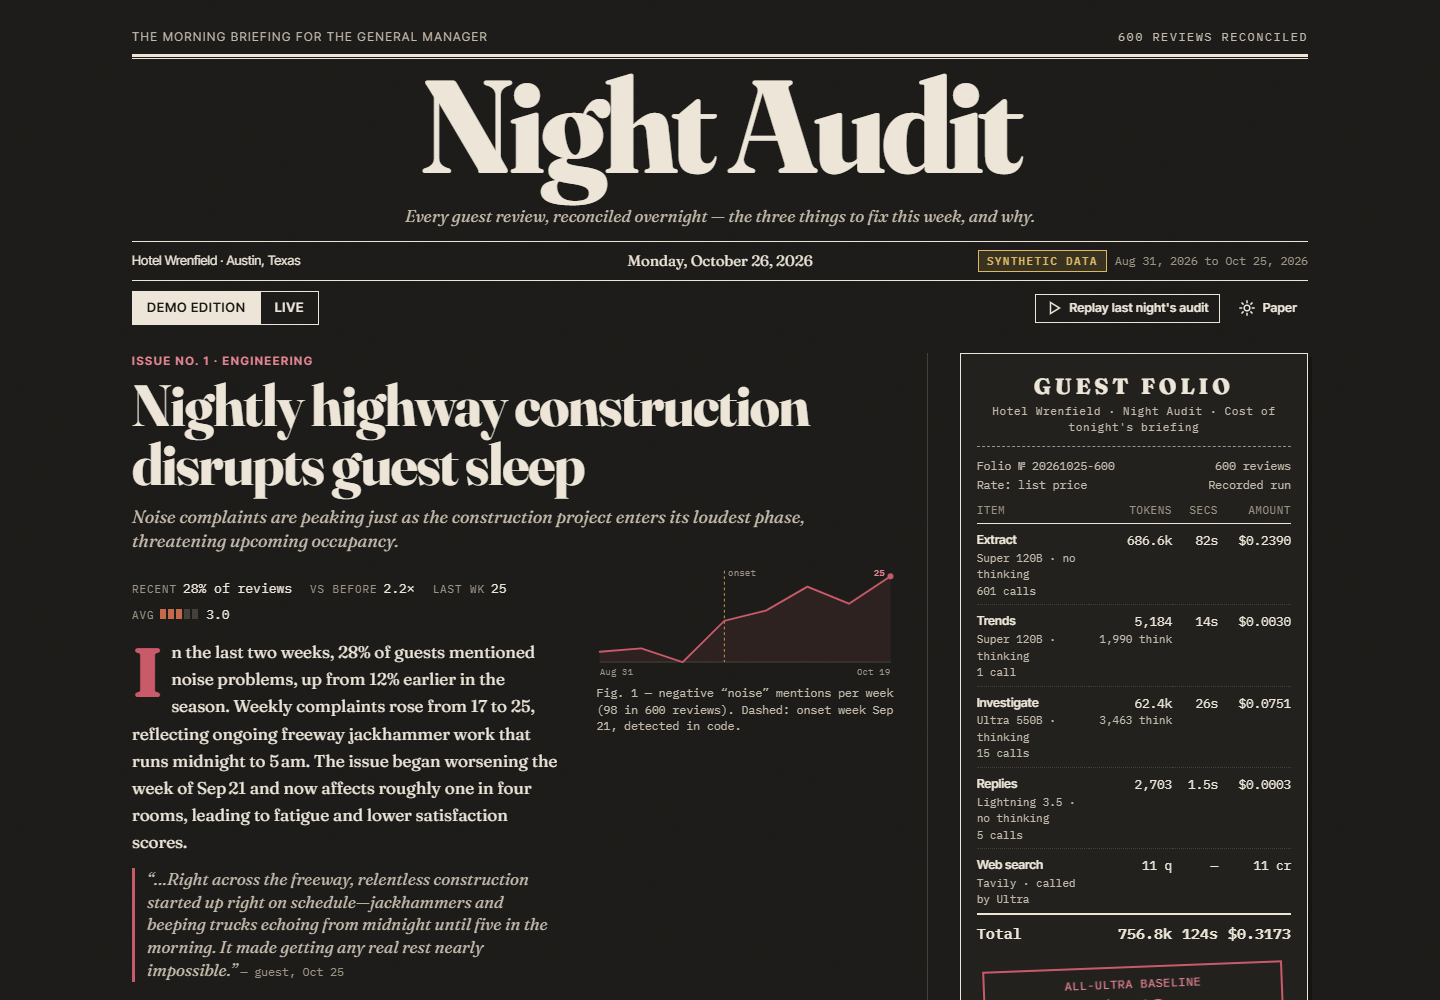
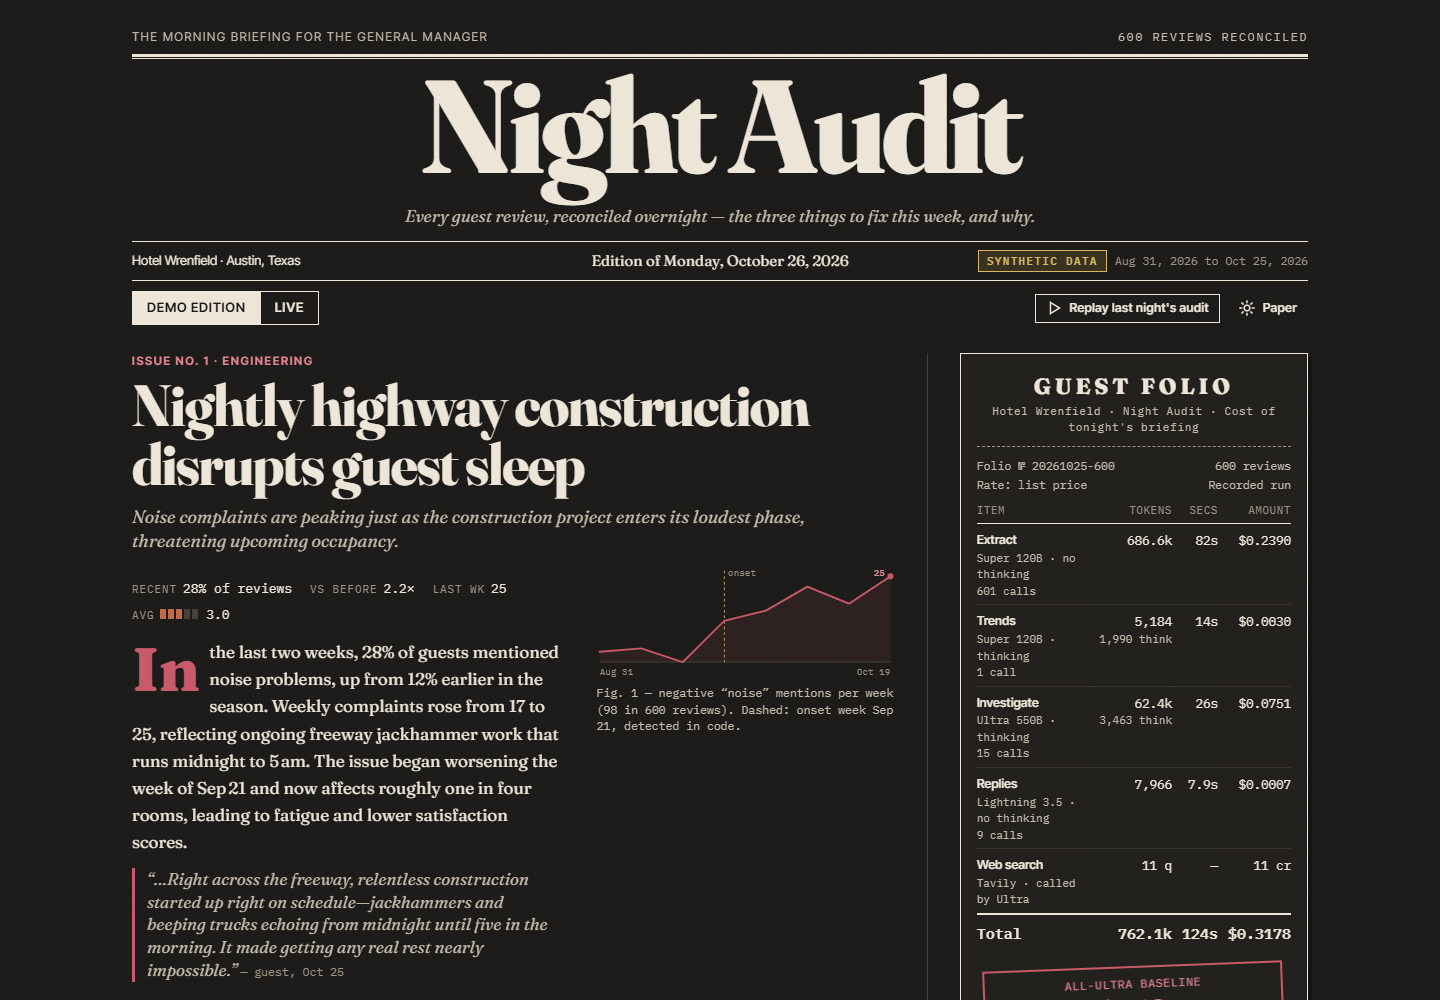
Refresh screenshots for the new UI; README image links; FEEDBACK cost figure
- docs/screenshots: desk-top, desk-night, phone-top, desk-inv (source type tags, cited sources
  numbered 1..k) and desk-replies (placeholders, stamp outside the draft, auto-grown editor),
  all from the demo edition. The mocked live-stream screenshots are not included.
- README: describe the investigation image, add the replies image and a night/phone pair.
- FEEDBACK: routed run is $0.318 after the reply re-draft (matches README / DEMO_SCRIPT).

Changed region(s): [[0.0938, 0.62, 0.375, 0.744], [0.4062, 0.248, 0.5938, 0.279], [0.7812, 0.93, 0.8125, 0.961]]

diff --git a/FEEDBACK.md b/FEEDBACK.md
@@ -64,7 +64,7 @@ Newest entries at the bottom. Do not rewrite earlier entries.
   severity-5 incidents escalated; weekly detected negatives within +-1 of planted for both trends.
 - Investigation found TxDOT's I-35 Capital Express nightly closures for the noise issue and ACL / F1 occupancy
   for breakfast. Ultra used 11-12 of the 12 allowed searches. Native tool calling, no fallback needed.
-- Routed run $0.317 / 124 s for 600 reviews; all-Ultra-thinking baseline measured $0.185 on 20 reviews,
+- Routed run $0.318 / 124 s for 600 reviews (incl. the later reply re-draft); all-Ultra-thinking baseline measured $0.185 on 20 reviews,
   extrapolated $2.18 -> 85% saved. Extraction is 75% of the routed cost.
 - First demo copy leaked machine values ("0.2715 (27.15%)", "change_vs_baseline of 1.177", ISO dates).
   Fixed in the trends prompt (newspaper-style numbers). Pull quotes opened on scene-setting ("Arrived in Austin

diff --git a/README.md b/README.md
@@ -35,7 +35,13 @@ models on **Nebius Token Factory** and **Tavily** for runtime web search.
 Two modes: **Demo edition** (cached real run, instant, zero cost, can replay the run's live progress) and
 **Live** (upload a CSV of up to 150 reviews; streams progress over SSE; rate-limited and spend-capped).
 
-![Investigation with numbered sources](docs/screenshots/desk-inv.png)
+![Investigation: cited sources numbered 1..k, tagged official / news / social, the rest behind "Show all"](docs/screenshots/desk-inv.png)
+
+![Replies for approval: commitments left as [GM to confirm: …] placeholders, one approved, one being edited](docs/screenshots/desk-replies.png)
+
+| Night theme | Phone |
+|---|---|
+| ![Night theme](docs/screenshots/desk-night.png) | ![Phone layout](docs/screenshots/phone-top.png) |
 
 ## How it works
 
